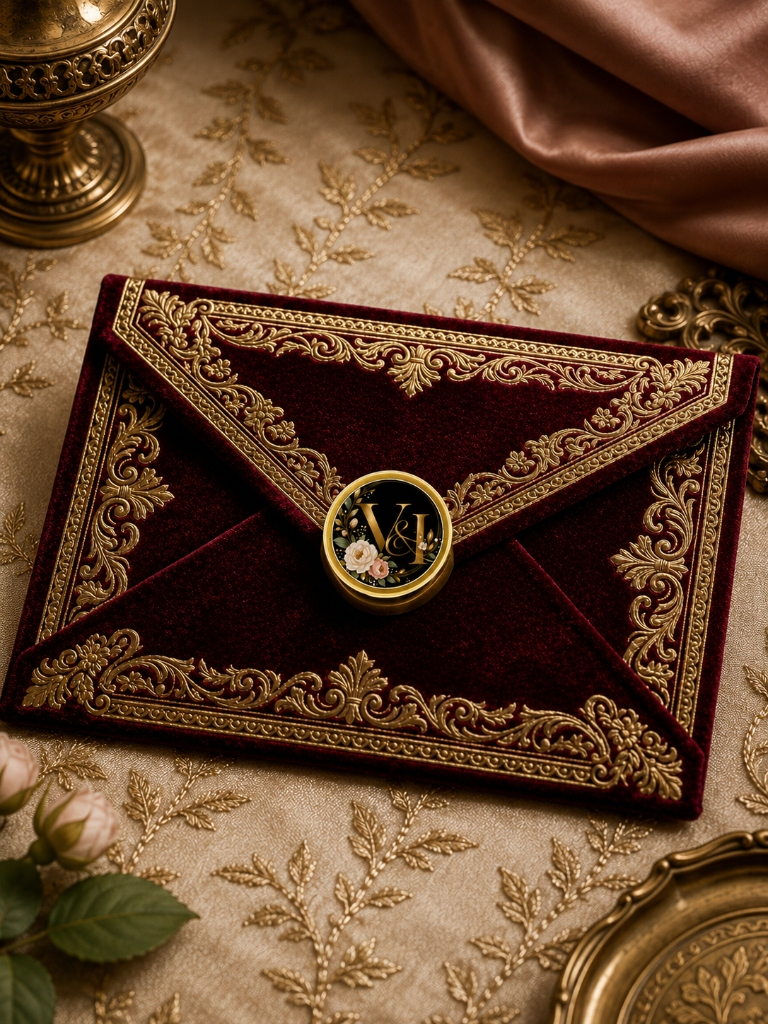
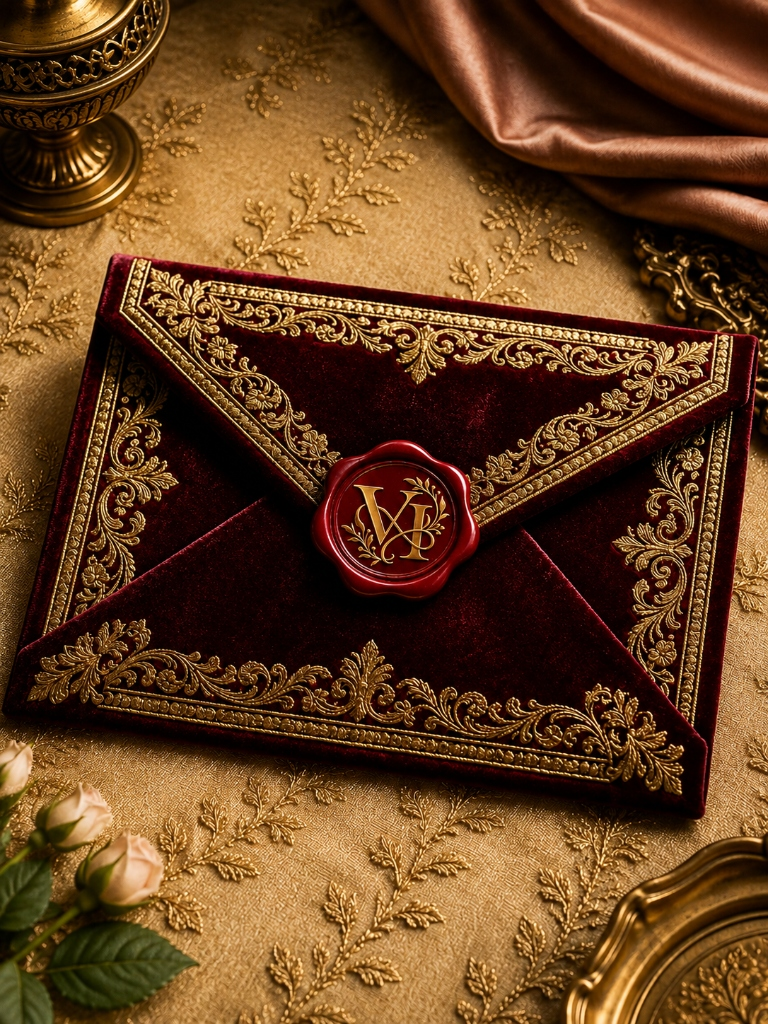
Updated envelope photograph with new vertical V&I wax seal image

diff --git a/src/components/EnvelopeIntro.jsx b/src/components/EnvelopeIntro.jsx
@@ -1,6 +1,5 @@
 import React, { useState } from 'react';
 import { motion, AnimatePresence } from 'framer-motion';
-import { Sparkles } from 'lucide-react';
 import confetti from 'canvas-confetti';
 
 export default function EnvelopeIntro({ onOpen }) {
@@ -36,7 +35,7 @@ export default function EnvelopeIntro({ onOpen }) {
       {/* Full-Screen Velvet Envelope Container */}
       <div className="relative w-full h-full overflow-hidden flex items-center justify-center bg-black">
         
-        {/* Full-Screen Real Photographic Plush Velvet Envelope Image (Includes Embedded V&I Wax Seal) */}
+        {/* Pure Photographic Velvet Envelope Image (Only the original envelope photograph) */}
         <img 
           src="/velvet-envelope.png" 
           alt="Real Royal Plush Velvet Envelope" 
@@ -46,19 +45,13 @@ export default function EnvelopeIntro({ onOpen }) {
         {/* Subtle Dark Vignette Overlay for Contrast */}
         <div className="absolute inset-0 bg-gradient-to-t from-black/70 via-transparent to-black/50 pointer-events-none" />
         
-        {/* Metallic Gold Corner Filigrees */}
-        <div className="absolute top-5 left-5 w-14 h-14 border-t-2 border-l-2 border-[#FFD700]/80 pointer-events-none drop-shadow-[0_2px_4px_rgba(0,0,0,0.9)]" />
-        <div className="absolute top-5 right-5 w-14 h-14 border-t-2 border-r-2 border-[#FFD700]/80 pointer-events-none drop-shadow-[0_2px_4px_rgba(0,0,0,0.9)]" />
-        <div className="absolute bottom-5 left-5 w-14 h-14 border-b-2 border-l-2 border-[#FFD700]/80 pointer-events-none drop-shadow-[0_2px_4px_rgba(0,0,0,0.9)]" />
-        <div className="absolute bottom-5 right-5 w-14 h-14 border-b-2 border-r-2 border-[#FFD700]/80 pointer-events-none drop-shadow-[0_2px_4px_rgba(0,0,0,0.9)]" />
-
-        {/* Exclusive Interactive Hot-Spot directly over the Wax Seal Logo */}
+        {/* Invisible Interactive Click/Touch Target directly over the Envelope Seal */}
         {!isOpen && (
           <button 
             onClick={handleOpen}
             onTouchEnd={handleOpen}
             aria-label="Open Invitation Wax Seal"
-            className="absolute top-[51.5%] left-[50.5%] -translate-x-1/2 -translate-y-1/2 w-28 h-28 sm:w-36 sm:h-36 rounded-full z-40 cursor-pointer focus:outline-none active:scale-95 transition-transform"
+            className="absolute top-[50%] left-[50%] -translate-x-1/2 -translate-y-1/2 w-28 h-28 sm:w-36 sm:h-36 rounded-full z-40 cursor-pointer focus:outline-none opacity-0"
           />
         )}
 
@@ -84,7 +77,7 @@ export default function EnvelopeIntro({ onOpen }) {
           )}
         </AnimatePresence>
 
-        {/* Floating Instruction Banner at Bottom */}
+        {/* Clean Instruction Banner at Bottom */}
         <AnimatePresence>
           {!isOpen && (
             <motion.div 
@@ -92,10 +85,8 @@ export default function EnvelopeIntro({ onOpen }) {
               transition={{ repeat: Infinity, duration: 2 }}
               className="absolute bottom-8 left-0 right-0 z-40 text-center px-4 flex items-center justify-center pointer-events-none"
             >
-              <p className="font-serif text-[11px] sm:text-xs uppercase tracking-[0.35em] text-[#FFF3CC] font-semibold flex items-center justify-center gap-2 drop-shadow-[0_2px_8px_rgba(0,0,0,0.9)] bg-black/60 py-2.5 px-6 rounded-full border border-[#FFD700]/40 backdrop-blur-md">
-                <Sparkles className="w-3.5 h-3.5 text-[#FFD700]" />
+              <p className="font-serif text-[11px] sm:text-xs uppercase tracking-[0.35em] text-[#FFF3CC] font-semibold flex items-center justify-center drop-shadow-[0_2px_8px_rgba(0,0,0,0.9)] bg-black/60 py-2.5 px-6 rounded-full border border-[#FFD700]/40 backdrop-blur-md">
                 Tap Wax Seal to Open Invitation
-                <Sparkles className="w-3.5 h-3.5 text-[#FFD700]" />
               </p>
             </motion.div>
           )}
